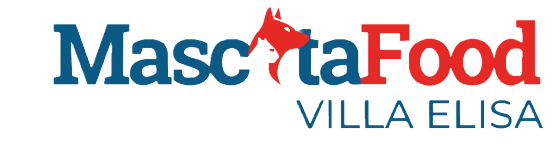
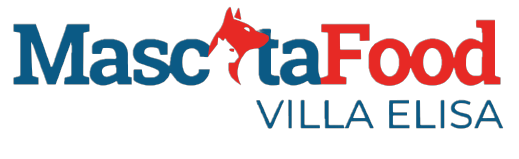
Actualización 21-09

Changed region(s): [[0.0, 0.0503, 0.9865, 0.5535], [0.4933, 0.6289, 0.9865, 0.8302], [0.9249, 0.1006, 0.9557, 0.1258]]

diff --git a/style.css b/style.css
@@ -1,4 +1,4 @@
-*{
+* {
     margin: 0px;
     padding: 0px;
     -moz-box-sizing: border-box;
@@ -6,141 +6,229 @@
     box-sizing: border-box;
 }
 
-header{
+header {
     display: flex;
     flex-direction: column;
 }
-.container{
-    position: absolute;
-    left: 28%;
-    top: 7%;
-}
-input{
-outline: none;
-width: 35vw;
-height: 2.5vw;
-border: #940303 2px solid;
-border-radius: 50px;
+
+.container {
+    display: flex;
+    align-items: center;
+    margin: 0%;
 }
 
-::placeholder{
+img {
+    height: 8vw;
+    margin-top: 0.5vw;
     padding: 10px;
+    transition: 0.8s;
+}
+img:hover {
+    height: 8.4vw;
+}
+
+#buscador {
+    position: static;
+    outline: none;
+    margin-left: 4vw;
+    width: 35vw;
+    height: 2.5vw;
+    border: #94030362 2px solid;
+    border-radius: 50px;
+    font-family: 'Courier New', Courier, monospace;
+    padding: 10px;
+}
+
+
+::placeholder {
+    padding: 3px;
     color: gray;
 }
 
 .navegacion ul {
-  list-style: none;
+    list-style: none;
 }
 
-.menu{
-    padding: 2vw;    
+
+/* Menú */
+.menu {
+    padding-top: 2vw;
     display: flex;
-   justify-content: space-evenly;
+    justify-content: space-evenly;
 }
-.menu > li {
+.menu>li {
     position: relative;
     display: inline-block;
 }
-.menu > li > a {
-    display: block;    
+.menu>li>a {
+    display: block;
     padding: 5px;
     margin-right: 2vw;
     margin-left: 2vw;
+    margin-bottom: 0.5vw;
     text-decoration: none;
     font-family: 'Courier New', Courier, monospace;
     font-weight: bold;
-    font-size: 1.2vw;    
+    font-size: 1.2vw;
     border-radius: 20px;
     color: #065581;
-    transition: all 0.3s ease;    
+    transition: all 0.3s ease;
     position: relative;
     overflow: hidden;
 }
+.menu li:hover .submenu {
+    visibility: visible;
+    opacity: 1;
+}
+/* Fin de código Menú */
+
+
+/* SubMenú */
 .submenu {
     position: absolute;
     border-radius: 5%;
     background-color: rgba(107, 107, 107, 0.842);
-    width: 120%;
+    width: 110%;
     visibility: hidden;
     opacity: 0;
     transition: opacity 1s;
     z-index: 1000;
 }
-.subsubmenu {
-    position: absolute;
-    background-color: rgba(107, 107, 107, 0.795);
-    border-radius: 5%;
-    visibility: hidden;    
-    opacity: 0;
-    transition: opacity 1s;  
-    margin-left: 175px;
-    margin-top: -48px;
-    z-index: 1000;
-}
-
-.subsubmenu > li > a {
+.submenu>li>a {
     display: block;
     padding: 15px;
     color: white;
     font-family: 'Courier New', Courier, monospace;
     text-decoration: none;
-    
 }
+.submenu li:hover .subsubmenu {
+    visibility: visible;
+    opacity: 1;
+}
+/* Fin de código SubMenú */
 
-.submenu > li > a {
-    display: block;    
+
+/* SubSubMenú */
+.subsubmenu {
+    position: absolute;
+    background-color: rgba(107, 107, 107, 0.795);
+    border-radius: 5%;
+    visibility: hidden;
+    opacity: 0;
+    transition: opacity 1s;
+    left: 100%;
+    top: 0%;
+    z-index: 1000;
+}
+.subsubmenu>li>a {
+    display: block;
+    padding: 15px;
+    color: white;
+    font-family: 'Courier New', Courier, monospace;
+    text-decoration: none;
+
+}
+/* Fin de código SubSubMenú */
+
+
+/* MenúPerros */
+.menuPerros {
+    position: absolute;
+    background-color: rgba(107, 107, 107, 0.795);
+    border-radius: 5%;
+    visibility: hidden;
+    opacity: 0;
+    transition: opacity 1s;
+    left: 100%;
+    top: 0%;
+    z-index: 1000;
+}
+.menuPerros>li>a {
+    display: block;
     padding: 15px;
     color: white;
     font-family: 'Courier New', Courier, monospace;
     text-decoration: none;
 }
+#Perros:hover .menuPerros {
+    visibility: visible;
+    opacity: 1;
+}
+/* Fin de código MenúPerros */
 
-a::before{
-    content: '';
+
+/* MenúGatos */
+.menuGatos {
     position: absolute;
-    width: 0;
+    background-color: rgba(107, 107, 107, 0.795);
+    border-radius: 5%;
+    visibility: hidden;
+    opacity: 0;
+    transition: opacity 1s;
+    left: 100%;
+    top: 50%;
+    z-index: 1000;
+}
+.menuGatos>li>a {
+    display: block;
+    padding: 15px;
+    color: white;
+    font-family: 'Courier New', Courier, monospace;
+    text-decoration: none;
+}
+#Gatos:hover .menuGatos {
+    visibility: visible;
+    opacity: 1;
+}
+/* Fin de código MenúGatos */
+
+.menu>li>a,
+.submenu>li>a,
+.subsubmenu>li>a,
+.menuPerros>li>a,
+.menuGatos>li>a {
+    position: relative;
+    text-decoration: none;
+    text-align: center;
+}
+
+.menu>li>a::after,
+.submenu>li>a::after,
+.subsubmenu>li>a::after,
+.menuPerros>li>a::after,
+.menuGatos>li>a::after {
+    content: "";
+    position: absolute;
+    left: 15%;
+    bottom: -2px;
+    width: 70%;
     height: 2px;
-    bottom: 0;
-    left: 0; 
     background-color: #c50000;
-    transition: width 0.3s ease;
+    transform: scaleX(0);
+    transform-origin: center;
+    transition: transform 0.3s ease;
 }
 
-a:hover::before {
-    width: 100%; 
+.menu>li>a:hover::after,
+.submenu>li>a:hover::after,
+.subsubmenu>li>a:hover::after,
+.menuPerros>li>a:hover::after,
+.menuGatos>li>a:hover::after {
+    transform: scaleX(1);
 }
 
-img{
-    height: 8vw;
-    padding: 10px;
-    transition: 0.5s;
-   }
-   img:hover {
-    height: 9vw;
-   }
-
-   .menu li:hover .submenu {
-    visibility: visible;
-    opacity: 1;
-   }
-
-   .submenu li:hover .subsubmenu {
-    visibility: visible;
-    opacity: 1;
-   }
 
 
-
-
-   @media screen and (max-width: 768px) {
-    img{
+@media screen and (max-width: 768px) {
+    img {
         height: 15vw;
-       }
-       img:hover{
+    }
+
+    img:hover {
         height: 15vw;
-       }
-    
-        .menu {
+    }
+
+    .menu {
         display: block;
         flex-direction: column;
         background-color: #940303;
@@ -158,7 +246,7 @@ img{
     .menu li {
         margin: 10px 0;
     }
-   
+
     .nav-toggle {
         display: block;
         cursor: pointer;

diff --git a/index.html b/index.html
@@ -1,5 +1,6 @@
 <!DOCTYPE html>
 <html lang="en">
+
 <head>
     <meta charset="UTF-8">
     <meta name="viewport" content="width=device-width, initial-scale=1.0">
@@ -8,37 +9,47 @@
     <script src="main.js"></script>
     <title>Mascota Food</title>
 </head>
+
 <body>
     <header>
-                  <a href="#">
-        <img src="assets\MascotasFood.png" alt= "logo"></a>
-        <div class="container">                        
-            <input type="text" placeholder="Busca tu marca preferida..">            
+        <div class="container">
+            <a href="index.html">
+                <img src="assets\MascotasFood.png" alt="logo"></a>
+            <input id="buscador" type="text" placeholder="Busca tu marca preferida..">
             <div class="btn">
-                <i class="fa fa-search" ></i>
+                <i class="fa fa-search"></i>
             </div>
-        </div>      
-
-         <nav class="navegacion">
-     
-        <ul class="menu" id="menu">
-       <li><a href="">Home</a></li>
-        <li><a href="">Productos</a><span><img src="assets/abajo.png" style="height: 10px; width: 10px;"></span>
-            <ul class="submenu">
-               <li><a>Alimentos secos</a>
-                 <ul class="subsubmenu">
-                <li><a href="">Perros</a></li>
-                <li><a href="">Gatos</a></li>
-                  </ul></li>
-               <li><a href="">Cuidados e higiene</a></li>
-               <li><a href="">Juguetes y camas</a></li>
+        </div>
+        <nav class="navegacion">
+            <ul class="menu" id="menu">
+                <li><a href="">Home</a></li>
+                <li><a href="">Productos</a>
+                    <ul class="submenu">
+                        <li><a href="">Alimentos</a>
+                            <ul class="subsubmenu">
+                                <li id="Perros"><a href="">Perros</a>
+                                    <ul class="menuPerros">
+                                        <li><a href="">Secos</a></li>
+                                        <li><a href="">Húmedos</a></li>
+                                    </ul>
+                                </li>
+                                <li id="Gatos"><a href="">Gatos</a>
+                                    <ul class="menuGatos">
+                                        <li><a href="">Secos</a></li>
+                                        <li><a href="">Húmedos</a></li>
+                                    </ul>
+                                </li>
+                            </ul>
+                        </li>
+                        <li><a href="">Cuidados e higiene</a></li>
+                        <li><a href="">Juguetes y camas</a></li>
+                    </ul>
+                </li>
+                <li> <a href="">Nosotros</a></li>
+                <li><a href="">Contáctanos</a></li>
             </ul>
-        </li>
-        <li> <a href="">Nosotros</a></li>
-            <li><a href="">Contactanos</a></li>
-    </ul>
-    </nav> 
+        </nav>
     </header>
-    
 </body>
+
 </html>
